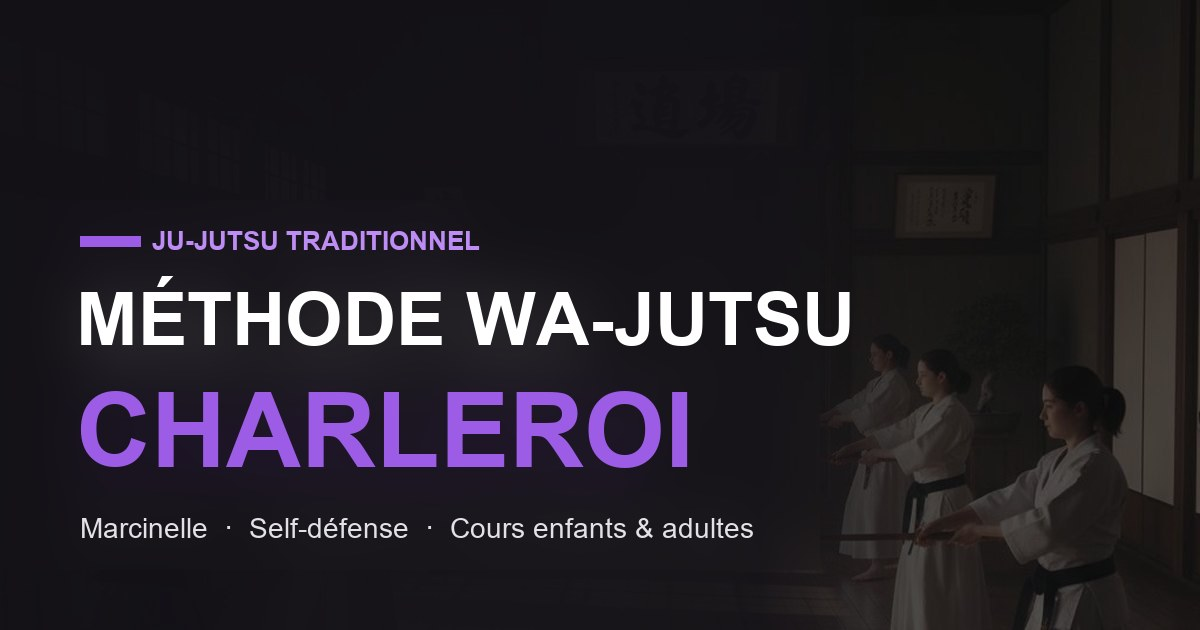
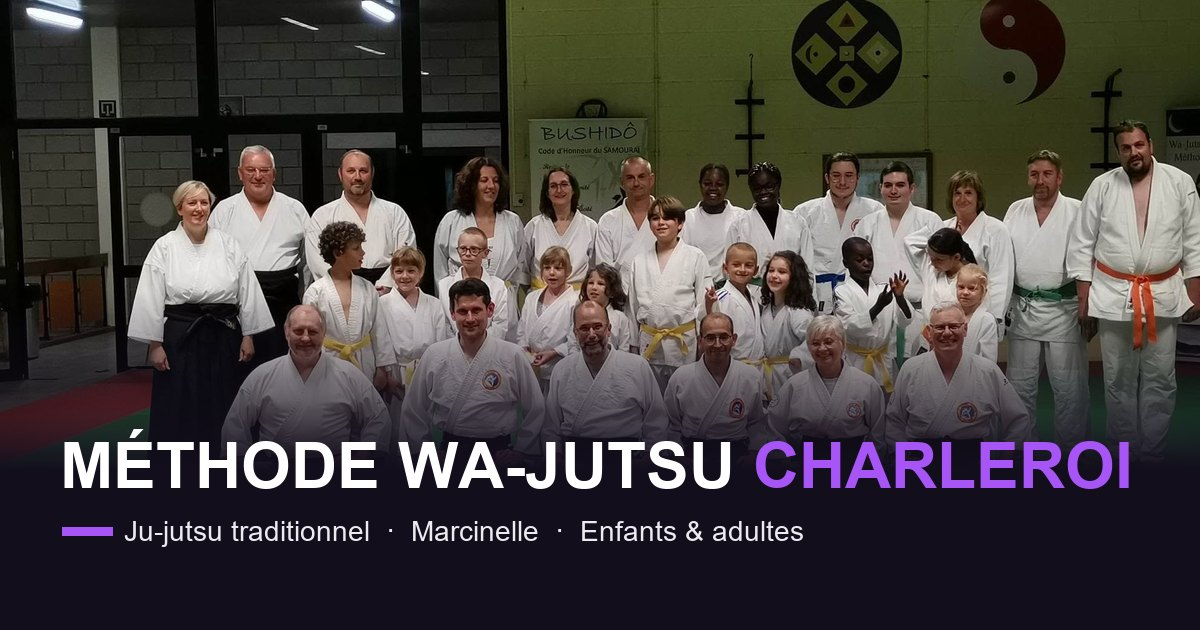
Vraies photos du club à la place des images générées
Accueil (bandeau : kata au sabre ; le club : deux pratiquants au sabre ;
appel final : photo de groupe), carte Kata, image d'article par défaut et
image de partage (groupe enfants et adultes du club). Restent générées faute
de vraie photo : self-défense, projections, ne-waza, instructeurs.

diff --git a/src/components/home/About.tsx b/src/components/home/About.tsx
@@ -40,7 +40,7 @@ export function About() {
             <div className="aspect-[4/5] bg-dark-600 relative overflow-hidden">
               <div
                 className="absolute inset-0 bg-cover bg-center"
-                style={{ backgroundImage: `url('/images/about-club-2026.webp')` }}
+                style={{ backgroundImage: `url('/images/gallery/gallery-06.webp')` }}
               />
               {/* Accent */}
               <div className="absolute -bottom-4 -right-4 w-32 h-32 bg-primary" />

diff --git a/src/components/home/Hero.tsx b/src/components/home/Hero.tsx
@@ -8,7 +8,7 @@ export function Hero() {
       <div
         className="absolute inset-0 bg-cover bg-center bg-no-repeat"
         style={{
-          backgroundImage: `linear-gradient(rgba(0,0,0,0.66), rgba(0,0,0,0.82)), url('/images/hero-training-2026.webp')`,
+          backgroundImage: `linear-gradient(rgba(0,0,0,0.66), rgba(0,0,0,0.82)), url('/images/accueil-kata-sabre.webp')`,
         }}
       />
 

diff --git a/src/components/home/CTA.tsx b/src/components/home/CTA.tsx
@@ -7,7 +7,7 @@ export function CTA() {
       <div
         className="absolute inset-0 bg-cover bg-center bg-fixed"
         style={{
-          backgroundImage: `linear-gradient(rgba(88,28,135,0.9), rgba(76,29,149,0.95)), url('/images/about-club-2026.webp')`,
+          backgroundImage: `linear-gradient(rgba(88,28,135,0.9), rgba(76,29,149,0.95)), url('/images/club-groupe.webp')`,
         }}
       />
 

diff --git a/src/lib/blog/from-one.ts b/src/lib/blog/from-one.ts
@@ -28,7 +28,7 @@ const SITE = 'wa-jutsu-charleroi.be'
 const PREMIER_RENDU = process.env['NEXT_PHASE'] === 'phase-production-build'
 
 /** Image du blog quand One n'en fournit pas : jamais d'image cassee. */
-export const IMAGE_ARTICLE_PAR_DEFAUT = '/images/hero-training-2026.webp'
+export const IMAGE_ARTICLE_PAR_DEFAUT = '/images/accueil-kata-sabre.webp'
 
 type ArticleOne = {
   slug: string

diff --git a/src/components/home/Disciplines.tsx b/src/components/home/Disciplines.tsx
@@ -10,7 +10,7 @@ const disciplines = [
   {
     title: 'Kata',
     description: 'Formes traditionnelles codifiées permettant de perfectionner les mouvements et la concentration.',
-    image: '/images/kata-2026.webp',
+    image: '/images/gallery/gallery-04.webp',
   },
   {
     title: 'Techniques au Sol',
